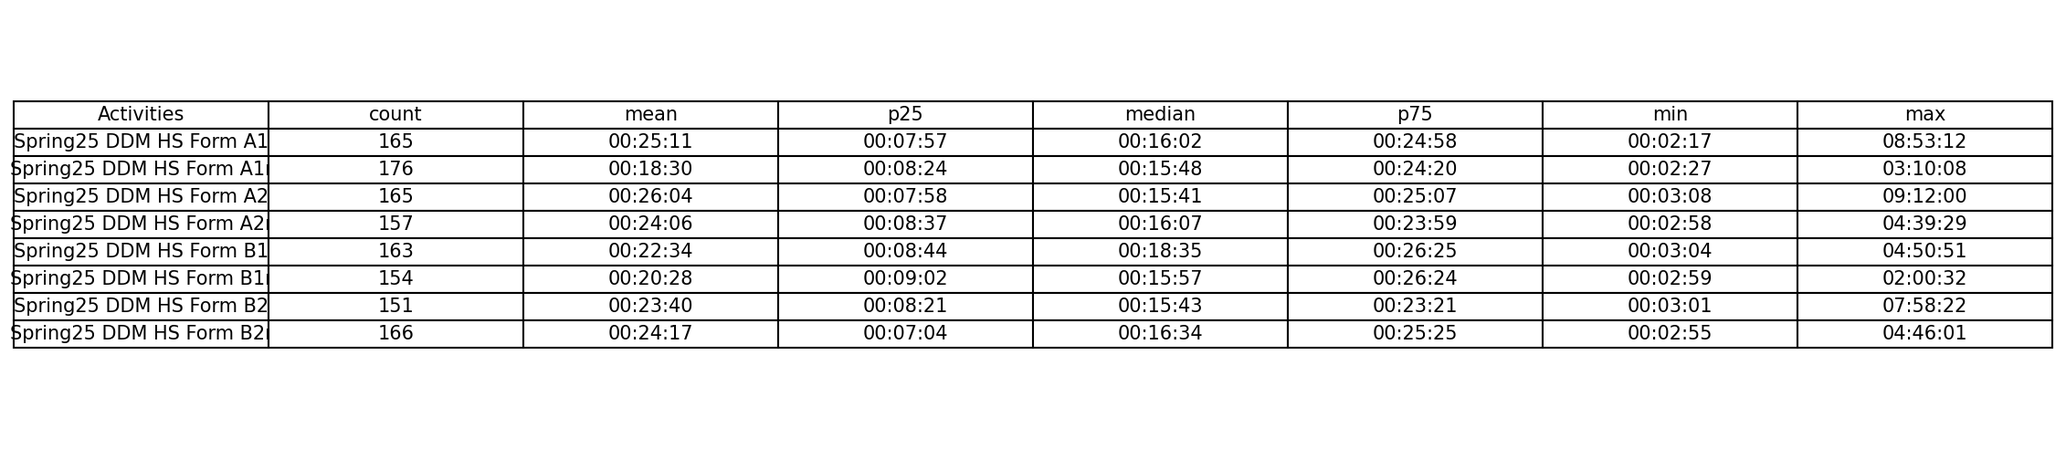
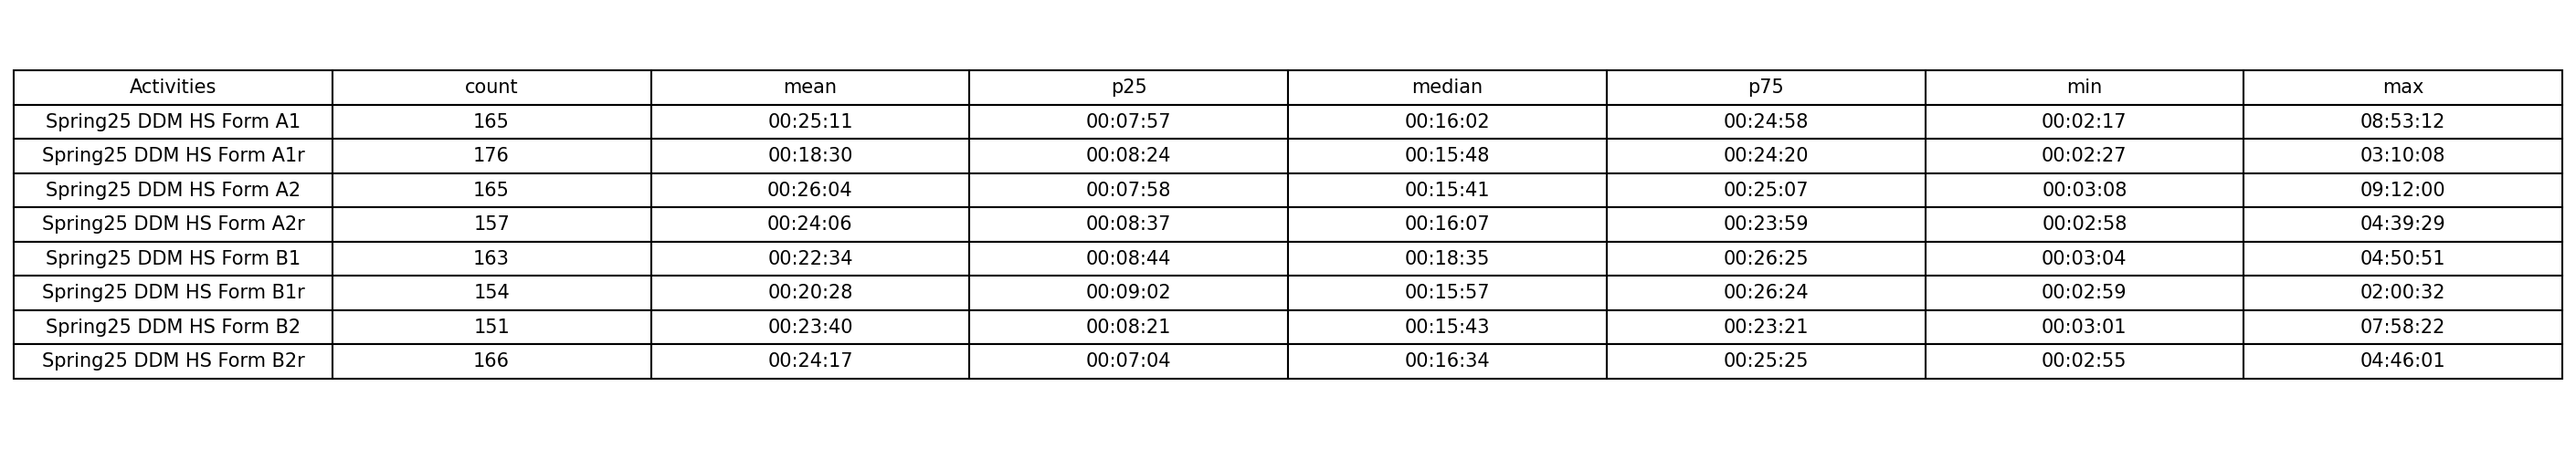
Updated graph and tables

Changed region(s): [[0.0, 0.1524, 1.0, 0.8537]]

diff --git a/DDM/analysis.py b/DDM/analysis.py
@@ -3,6 +3,7 @@ import pandas as pd
 def load_and_clean_data(config):
     """
     Loads and cleans respondent data based on a configuration dictionary.
+    Includes detailed printouts of students removed at each step.
     
     Args:
         config (dict): A dictionary containing 'file_path', 'complete_action',
@@ -12,41 +13,66 @@ def load_and_clean_data(config):
         file_path = config['file_path']
         df = pd.read_csv(file_path)
 
+        # --- Initial Count ---
+        initial_count = df['Assignment'].nunique()
+        print("\n--- Data Cleaning Funnel ---")
+        print(f"Step 1: Initial total unique students loaded: {initial_count}")
+
         # --- Data Cleaning ---
         df['Action'] = df['Action'].astype(str)
         
-        # --- MODIFIED PAUSE FILTER ---
-        # Check if the 'filter_pauses' key is set to True
+        # --- Pause Filter ---
         if config.get('filter_pauses', True):
-            print("Cleaning: Filtering out assignments with pauses...")
             pause_actions = df[df['Action'].str.contains('pause', case=False, na=False)]
             assignments_with_pause = pause_actions["Assignment"].unique()
+            
+            print(f"Step 2: Removing {len(assignments_with_pause)} students with 'pause' actions...")
             df = df[~df["Assignment"].isin(assignments_with_pause)]
+            
+            count_after_pause_filter = df['Assignment'].nunique()
+            print(f"       Remaining students: {count_after_pause_filter}")
         else:
-            print("Cleaning: Including all assignments (with and without pauses)...")
+            print("Step 2: Skipping 'pause' filter (as configured)...")
+            count_after_pause_filter = initial_count # No change
 
-        # Get the unique completion action from the configuration
-        complete_action = config['complete_action']
+        # --- Completion Filter ---
+        count_before_completion_filter = df['Assignment'].nunique()
         
+        complete_action = config['complete_action']
         completed_actions = df[df['Action'] == complete_action]
         completed_assignments_ids = completed_actions['Assignment'].unique()
+        
         df = df[df['Assignment'].isin(completed_assignments_ids)]
+        
+        count_after_completion_filter = df['Assignment'].nunique()
+        removed_count = count_before_completion_filter - count_after_completion_filter
+        
+        print(f"Step 3: Removing {removed_count} students who did not complete the assessment...")
+        print(f"       Remaining students: {count_after_completion_filter}")
 
         # --- Time Calculations ---
         df['datetime'] = pd.to_datetime(df['Date'] + ' ' + df['Time'], errors='coerce')
         df.dropna(subset=['datetime'], inplace=True)
 
-        # This calculation remains the same.
-        # For "with-pause" data, this 'duration' will be the total elapsed time.
         time_per_respondent = df.groupby('Assignment')['datetime'].agg(['min', 'max'])
         time_per_respondent['duration'] = time_per_respondent['max'] - time_per_respondent['min']
-
-        time_limit_max = pd.Timedelta(minutes=600)
+        
+        count_before_time_filter = len(time_per_respondent)
+        
+        # --- Time Filter ---
+        time_limit_max = pd.Timedelta(minutes = 600)
         time_limit_min = pd.Timedelta(minutes=1)
         time_filtered_df = time_per_respondent[(time_per_respondent['duration'] < time_limit_max) & (time_per_respondent["duration"] > time_limit_min)]
         time_filtered_df.reset_index(inplace=True)
+        
+        count_after_time_filter = len(time_filtered_df)
+        removed_count = count_before_time_filter - count_after_time_filter
+        
+        print(f"Step 4: Removing {removed_count} students with durations < 1 min or > 10 hrs...")
+        print(f"       Final analytic sample: {count_after_time_filter} students")
+        print("---------------------------------")
 
-        print(f"Data loading and cleaning complete for: {file_path}")
+        print(f"\nData loading and cleaning complete for: {file_path}")
         return df, time_filtered_df
 
     except FileNotFoundError:

diff --git a/DDM/reporting.py b/DDM/reporting.py
@@ -32,7 +32,7 @@ def create_table_image(main_df, time_filtered_df, analysis_name):
         the_table = ax.table(cellText=df_reset.values, colLabels=df_reset.columns, loc='center', cellLoc='center')
         the_table.auto_set_font_size(False)
         the_table.set_fontsize(10)
-        the_table.scale(1.2, 1.2)
+        the_table.scale(1.5, 1.5)
         
         output_filename = f'summary_table_{analysis_name}.png'
         plt.savefig(output_filename, bbox_inches='tight', dpi=150)
